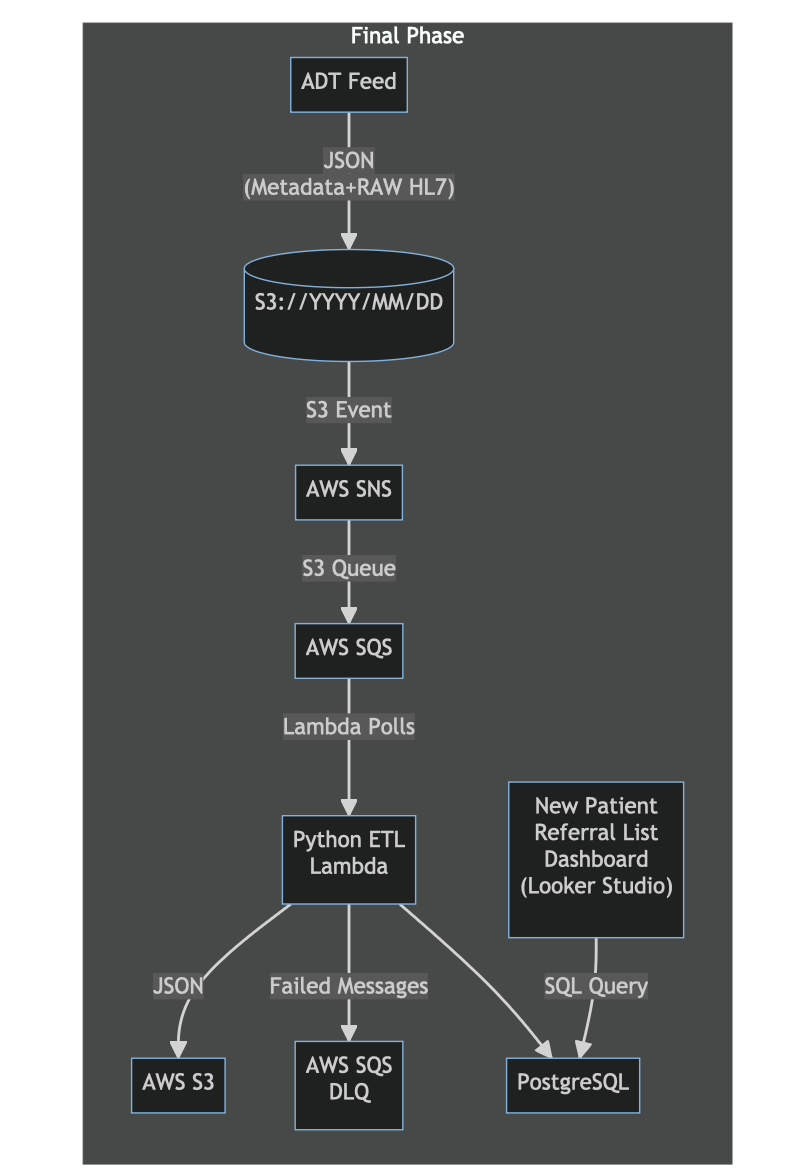
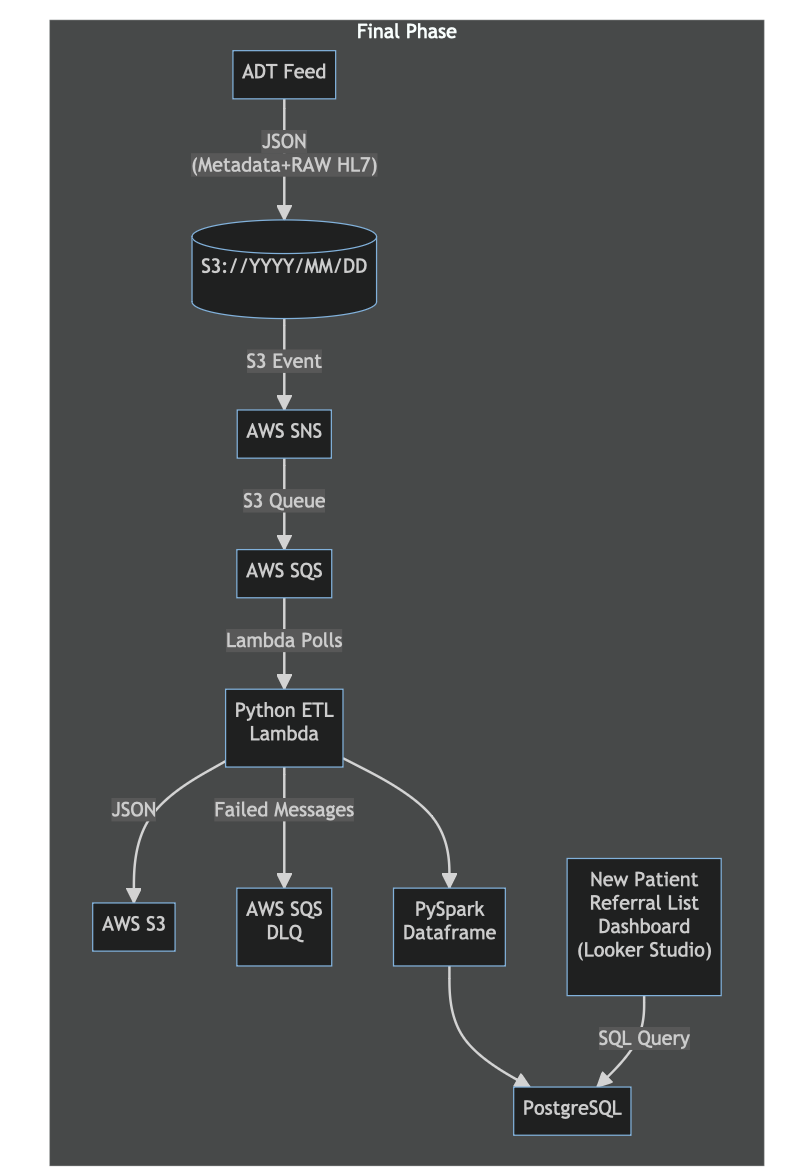
Cleaned up workflow

Changed region(s): [[0.0622, 0.0, 0.9639, 1.0], [0.5597, 0.8571, 0.5908, 0.8878]]

diff --git a/final-phase.md b/final-phase.md
@@ -10,10 +10,12 @@ flowchart LR
     py -- JSON --> s3["AWS S3"]
     py -- "Failed Messages" --> dlq["AWS SQS
     DLQ"]
-    py  --> F["PostgreSQL"]
+    py  --> F["PySpark
+    Dataframe"]
+    F --> G["PostgreSQL"]
     L["New Patient 
     Referral List
     Dashboard
-    (Looker Studio)"] -- SQL Query --> F
+    (Looker Studio)"] -- SQL Query --> G
     end
 ```
